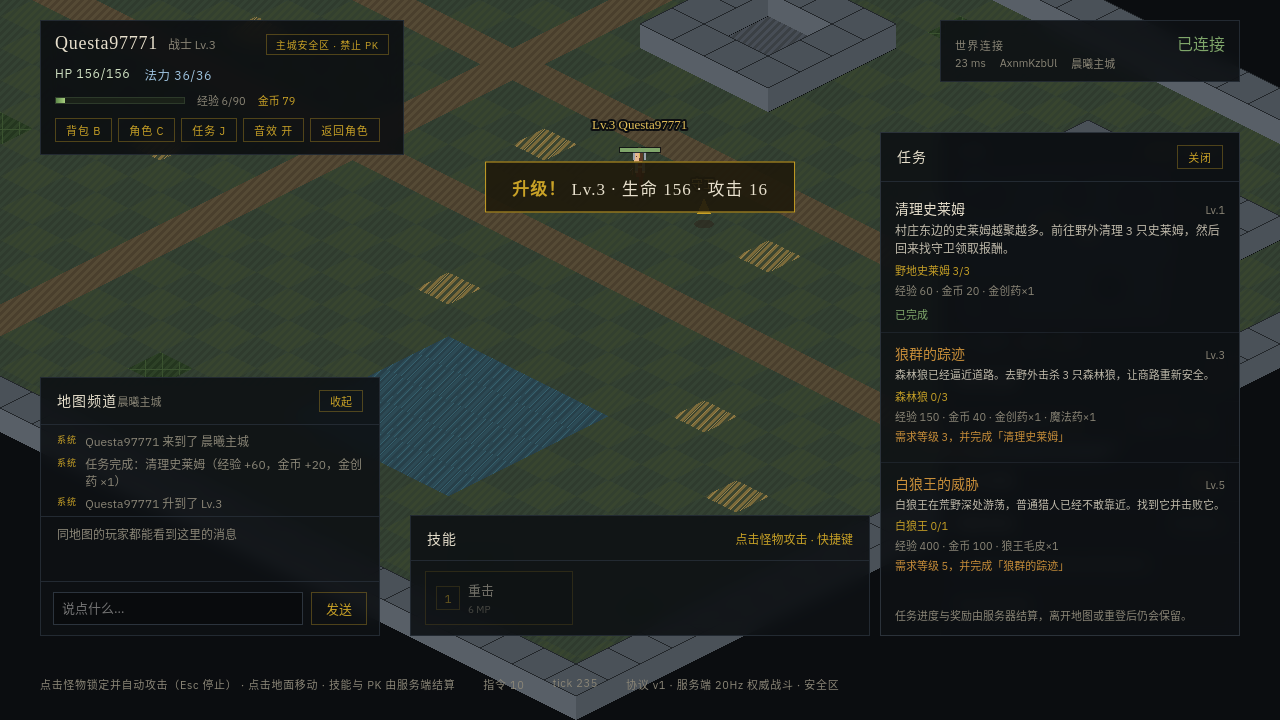
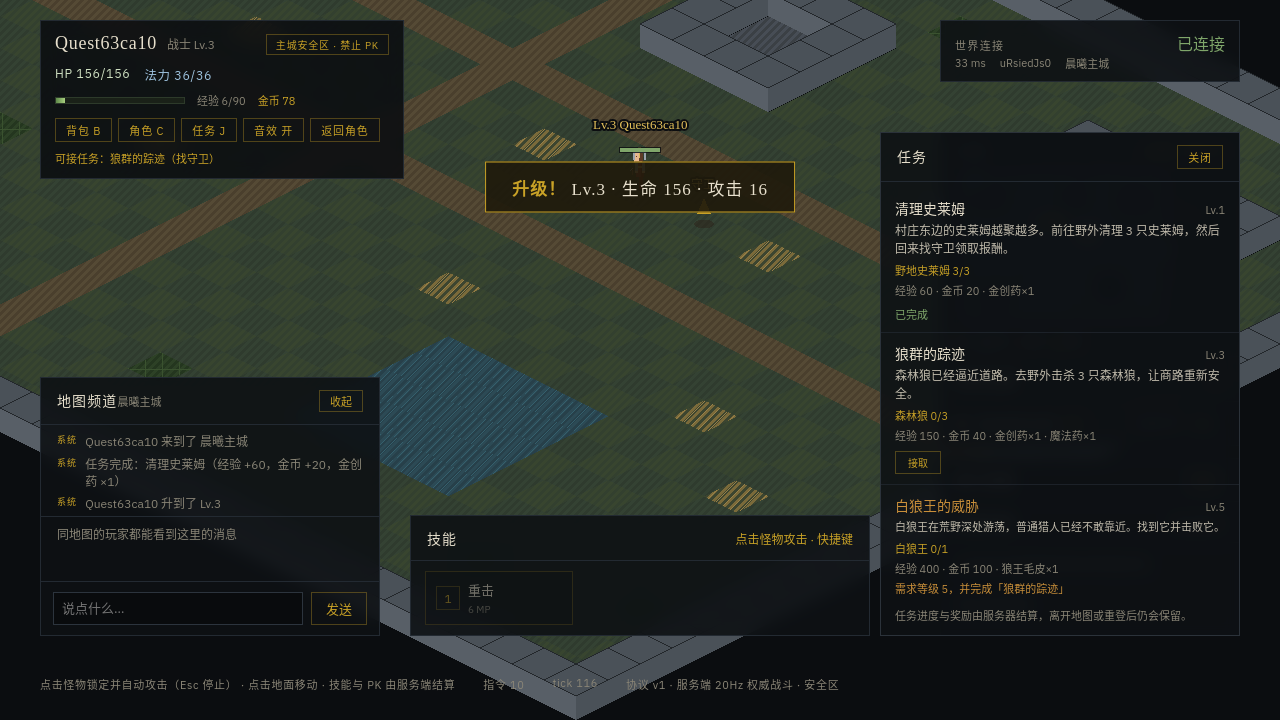
fix(alpha-02): refresh the quest chain after a claim or level-up
Claiming a quest can satisfy the next quest's prerequisite, and a kill can
gain a level that satisfies a level requirement. Re-send the resolved quest
snapshot on both paths so the browser unlocks the next step immediately
instead of keeping the stale locked view until a rejoin.

diff --git a/apps/game-server/src/rooms/worldMapRoom.ts b/apps/game-server/src/rooms/worldMapRoom.ts
@@ -2286,6 +2286,11 @@ export class WorldMapRoom extends Room<{ state: WorldStateInstance }> {
     }
     session.assetSnapshot = outcome.snapshot;
     this.applyQuestUpdates(session, outcome.questUpdates);
+    // A level gained from the kill can satisfy a quest's level requirement;
+    // re-send the resolved chain so locked entries unlock without a rejoin.
+    if (outcome.leveledUp) {
+      this.sendQuestSnapshot(session.client, session);
+    }
     this.sendProgress(session, outcome.leveledUp);
     this.sendProfile(session.client, session.playerId);
     if (outcome.leveledUp) {
@@ -2691,6 +2696,11 @@ export class WorldMapRoom extends Room<{ state: WorldStateInstance }> {
         this.sendProgress(session, outcome.leveledUp);
         this.sendProfile(session.client, session.playerId);
         const view = this.sendQuestUpdate(session, outcome.record);
+        // Claiming (and any level gained with it) can unlock the next quest or
+        // make it available, so the whole chain is re-resolved, not just the
+        // claimed quest. The same snapshot covers a client that missed a
+        // duplicate command's result.
+        this.sendQuestSnapshot(session.client, session);
         if (outcome.deduplicated || view === null) {
           return;
         }

diff --git a/tests/e2e/quests.spec.ts b/tests/e2e/quests.spec.ts
@@ -89,7 +89,9 @@ function questSlimeRow(page: Page) {
 async function killSlime(page: Page): Promise<void> {
   const row = questSlimeRow(page);
   await expect(row).toHaveCount(1, { timeout: 15_000 });
-  await expect.poll(async () => row.getAttribute('data-state'), { timeout: 20_000 }).not.toBe('dead');
+  await expect
+    .poll(async () => row.getAttribute('data-state'), { timeout: 20_000 })
+    .not.toBe('dead');
   await page.evaluate(
     (monsterId) => window.__webLegendDebug?.attackMonster(monsterId) ?? false,
     QUEST_SLIME.id,
@@ -189,5 +191,10 @@ test('the guard quest chain tracks kills and pays out on turn-in', async ({ brow
   );
   await expect(page.getByTestId('quest-tracker')).toHaveCount(0);
   await expect(trackerRow(page)).toHaveCount(0);
+  // Claiming the first quest and reaching level 3 must unlock the second one
+  // without a rejoin; the server re-sends the whole resolved chain.
+  await expect(
+    page.locator('[data-testid="quest-row"][data-quest-id="quest_wolf_patrol"]'),
+  ).toHaveAttribute('data-status', 'available', { timeout: 10_000 });
   await page.screenshot({ path: join(ARTIFACT_DIR, 'quest-claimed.png') });
 });
